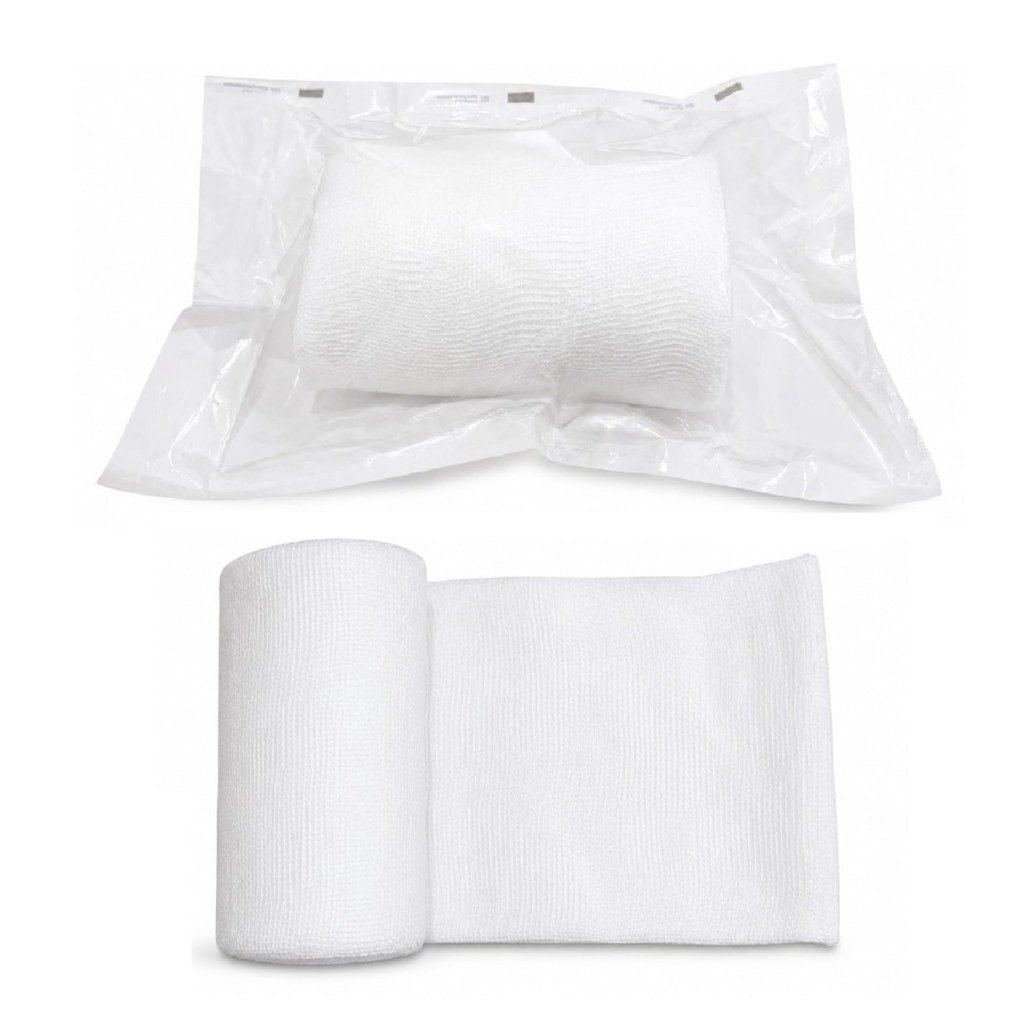
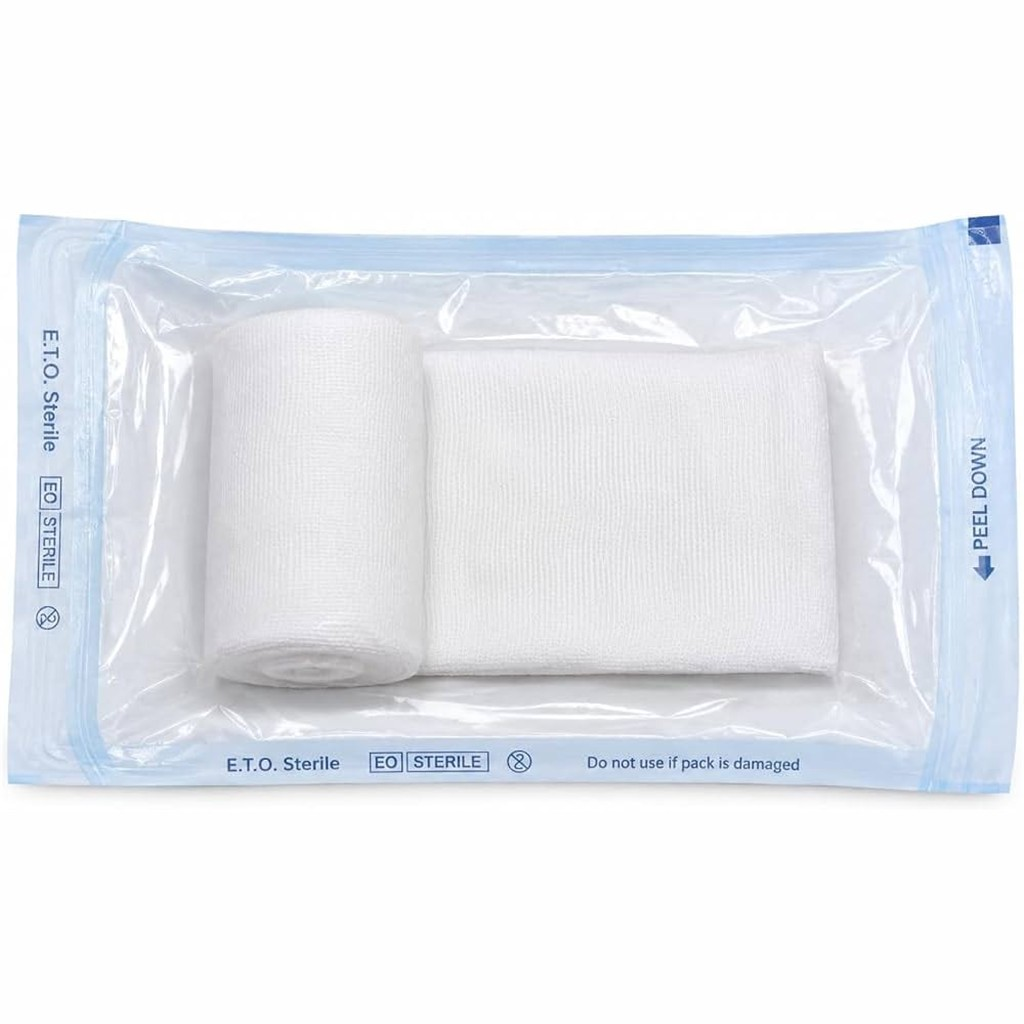
new image

diff --git a/src/main.jsx b/src/main.jsx
@@ -845,7 +845,7 @@ function ProductCard({ product, index = 0 }) {
       style={{ '--delay': `${(index % 4) * 70}ms` }}
       href={`#/product/${product.slug}`}
     >
-      <div className="product-image">
+      <div className={`product-image${product.slug === 'bandage-cloth' ? ' product-image-blue' : ''}`}>
         <img src={`${assets}${product.image}?v=3`} alt="" width="1024" height="1024" loading="lazy" decoding="async" />
       </div>
       <div className="product-body">

diff --git a/src/styles.css b/src/styles.css
@@ -1976,3 +1976,13 @@ p {
     transform: none;
   }
 }
+
+/* Match the bandage cloth pack photo background to the neighboring product cards. */
+.product-image-blue {
+  background: #cbdffc;
+}
+
+.product-image-blue img {
+  mix-blend-mode: multiply;
+}
+
